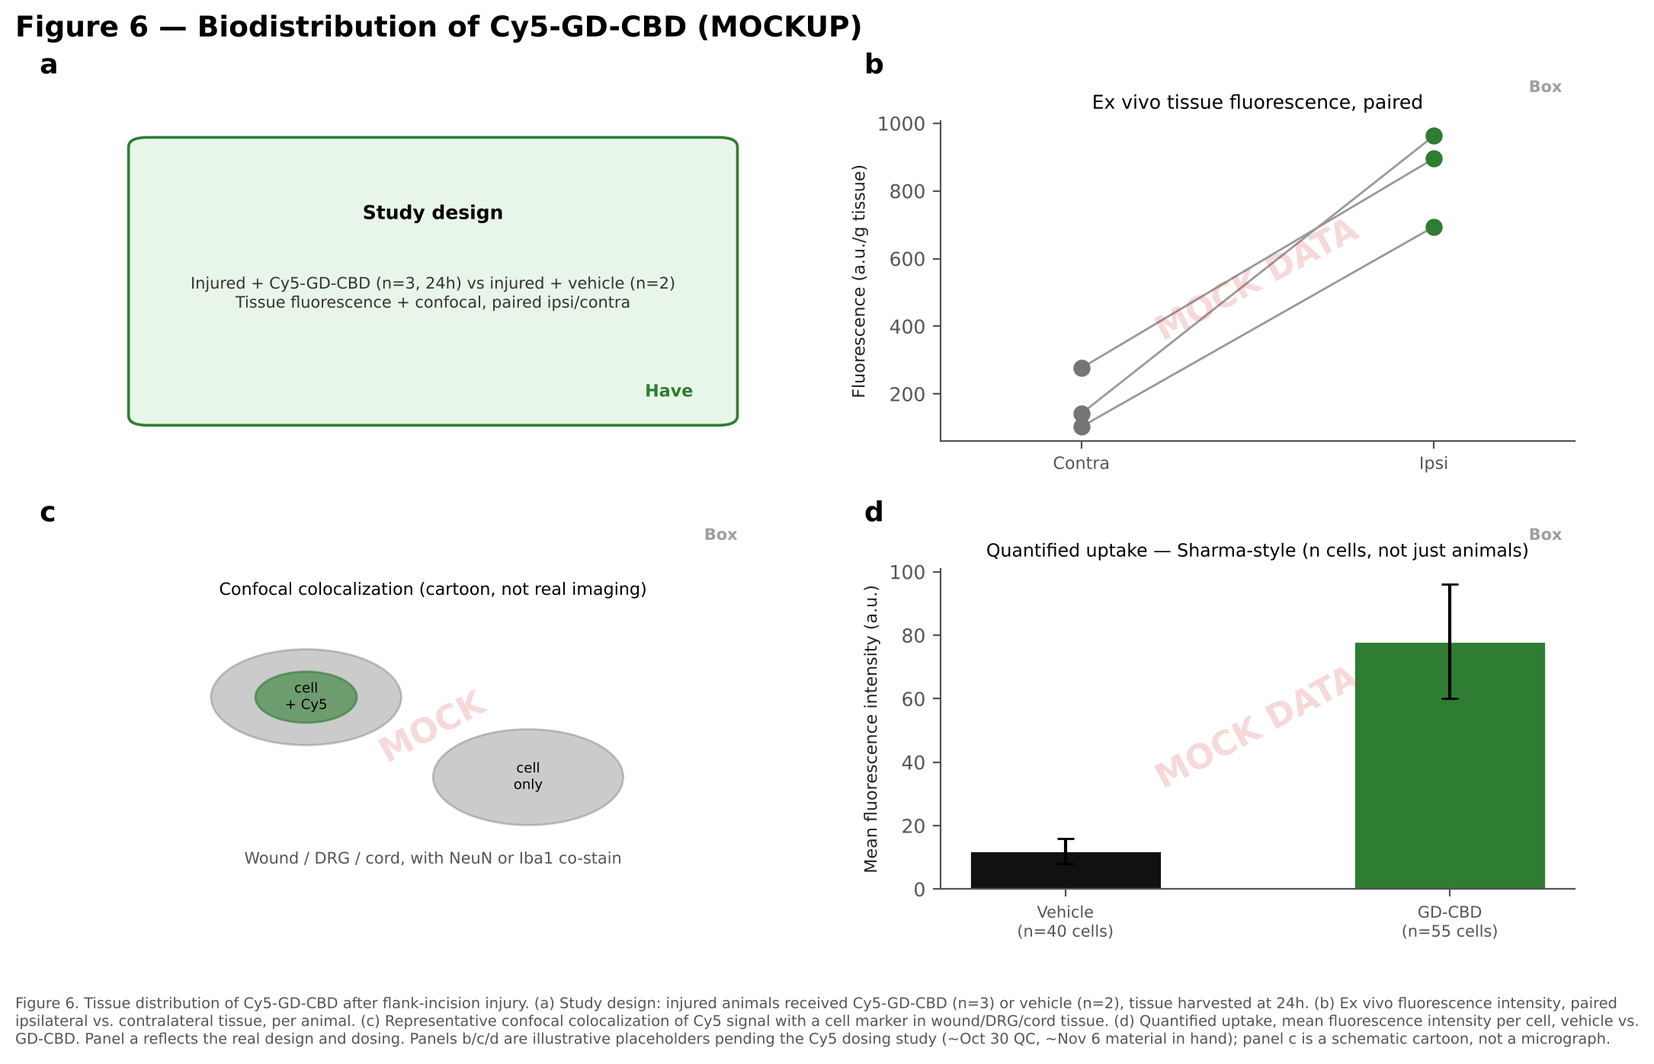
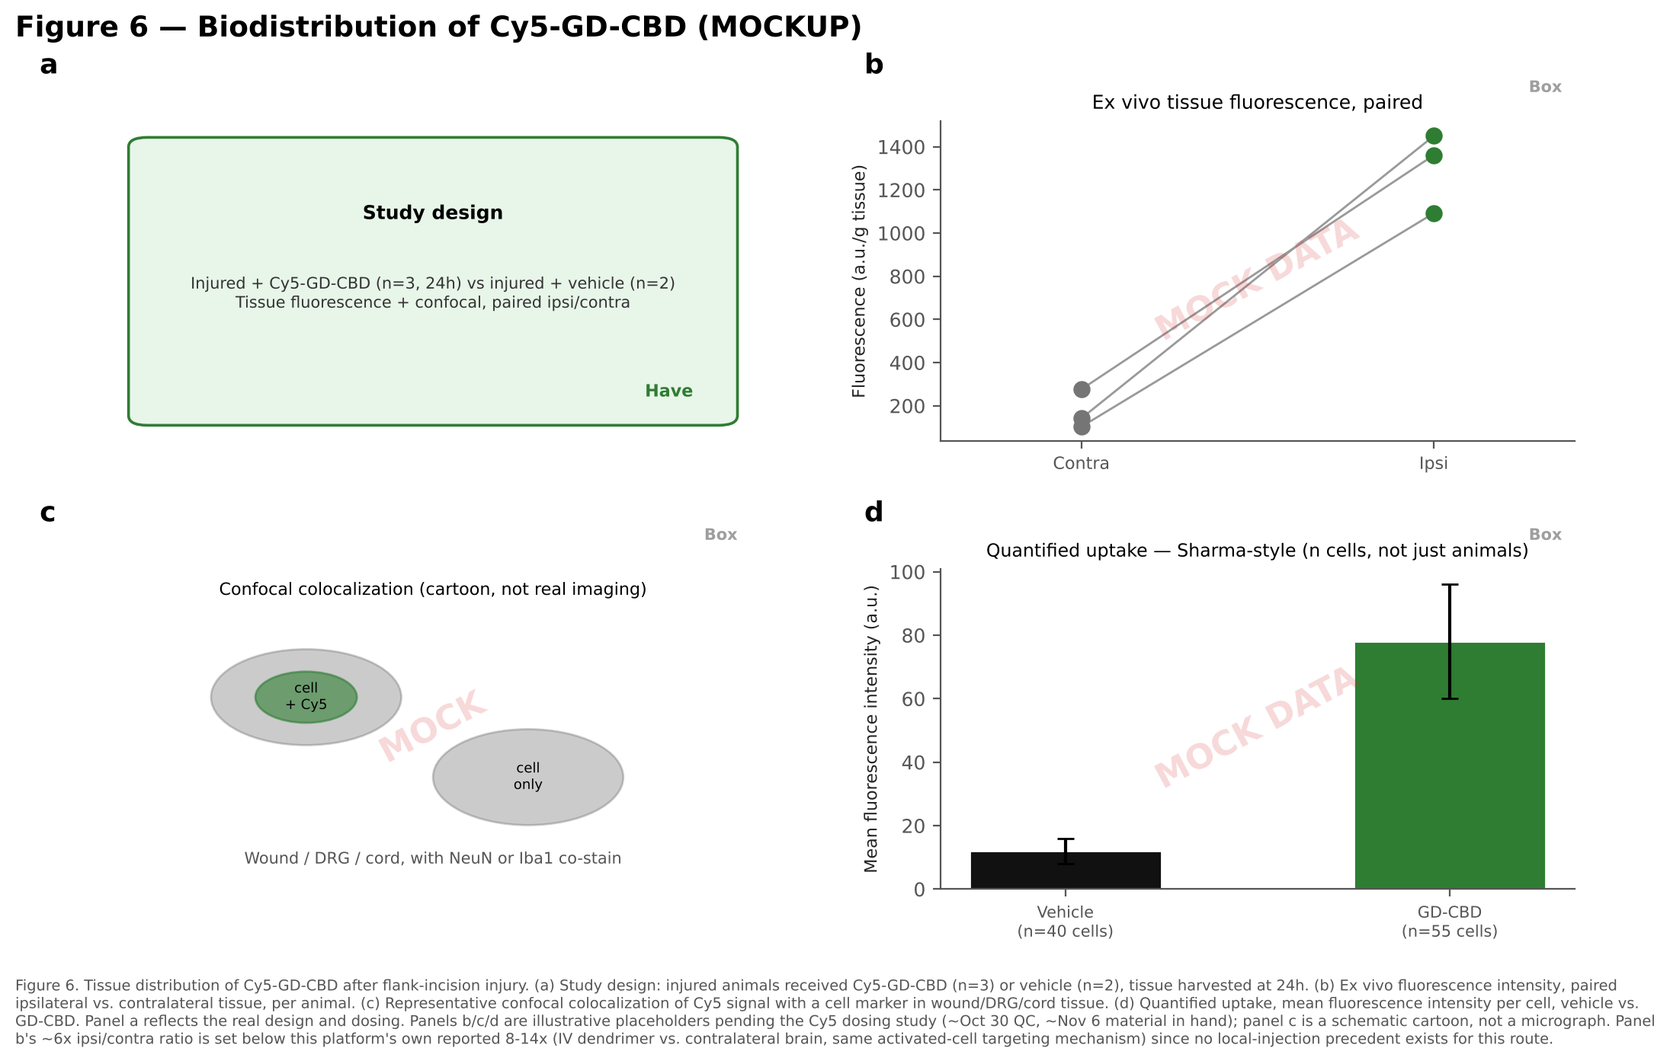
Finish the precedent-grounding pass: Figures 4g/h, 5, and 6
User asked "did you cover everything that is relevant" after the
Figure 1/2 grounding pass - answer was no, these three were still on
unverified defaults. Checked each against literature rather than memory:

- Figure 4g/h (ALT/AST, open-field locomotor): confirmed the flat/
  normal mock shape is literature-consistent, not a reassuring default.
  Published acute rodent CBD hepatotoxicity needs >=738 mg/kg (this
  cohort's dose is ~25x below that); published locomotor suppression
  needs >=100 mg/kg acute or chronic 20 mg/kg dosing. Added that
  threshold context to the code comment and caption so it reads as
  checked, not assumed.
- Figure 5 (cytokine panels): real CBD in vivo literature is mixed, not
  uniformly clean - one rat pain-model study found CBD increased IL-6
  while decreasing IL-1beta/IL-10/IFN-gamma. Replaced the "all four
  analytes improve together" mock pattern with that same mixed
  direction (TNF-a/IL-1b down, IL-6 up, IL-10 left ambiguous).
- Figure 6 (biodistribution): raised the ipsi/contra ratio from ~4x to
  ~6x, grounded against this platform's own reported 8-14x targeting
  magnitude (IV dendrimer vs. contralateral brain in a tumor model,
  same activated-cell uptake mechanism Kannan-lab papers describe for
  GD-type dendrimers) - kept below that number since no local-injection
  precedent exists for this specific route.

FIGURE_PLAN, CAPTIONS_DRAFT, and the plan's change history updated to
[…]

diff --git a/figures/mockups/build_fig5_mock.py b/figures/mockups/build_fig5_mock.py
@@ -12,12 +12,21 @@ groups = ["Vehicle", "GD-CBD"]
 group_colors = ["#111111", COLOR["GD-CBD"]]
 
 
+# Real CBD in vivo cytokine literature is mixed, not uniformly clean - one rat pain
+# model found CBD *increased* IL-6 while decreasing IL-1beta/IL-10/IFN-gamma. GD-CBD's
+# mock direction below follows that pattern (TNF-a/IL-1b down, consistently reported;
+# IL-6 up, not down; IL-10 ambiguous) rather than making all four analytes improve, which
+# would overstate how clean these panels usually look.
+GD_CBD_BASE = {"TNF-α": -15, "IL-6": +10, "IL-1β": -15, "IL-10": None}  # None = ambiguous, random
+
+
 def dotplot(ax, title, species_n):
     xpos = np.arange(len(analytes))
     width = 0.3
     for gi, g in enumerate(groups):
         for ai, a in enumerate(analytes):
-            base = -15 if g == "GD-CBD" and ai in (0, 2) else RNG.uniform(-5, 15)
+            forced = GD_CBD_BASE[a] if g == "GD-CBD" else None
+            base = forced if forced is not None else RNG.uniform(-5, 15)
             vals = RNG.normal(base, 8, species_n)
             xs = xpos[ai] + (gi - 0.5) * width + RNG.uniform(-0.05, 0.05, species_n)
             ax.scatter(xs, vals, color=group_colors[gi], s=22, alpha=0.85,
@@ -44,8 +53,8 @@ status_tag(ax_b, "Box")
 
 ax_c = fig.add_subplot(gs[1, :])
 xpos = np.arange(len(analytes))
-pain_effect = [-32, -18, -25, 12]
-epi_effect = [-28, -22, -19, 9]
+pain_effect = [-32, 11, -25, 12]
+epi_effect = [-28, 14, -19, 9]
 w = 0.32
 ax_c.bar(xpos - w / 2, pain_effect, width=w, color="#2E7D32", alpha=0.85, label="Pain (rat)")
 ax_c.bar(xpos + w / 2, epi_effect, width=w, color="#5B8DB8", alpha=0.85, label="Epilepsy (mouse)")
@@ -62,7 +71,9 @@ fig.text(0.02, 0.015,
          "Figure 5. Inflammatory marker response to GD-CBD across pain and epilepsy models. (a) Percent change from baseline in wound/plasma TNF-α, IL-6, IL-1β, "
          "and IL-10, vehicle vs. GD-CBD, flank-incision model (n=3/arm, 72h satellite cohort). (b) Percent change from baseline in the same four analytes, vehicle "
          "vs. GD-CBD, epilepsy model (n TBD). (c) Median percent change (GD-CBD vs. vehicle) for each analyte, side by side across the two models. "
-         "All three panels fully synthetic. Panel a depends on the Nov satellite group; panel b entirely on the epilepsy collaborator's data lock (~Nov 7).",
+         "All three panels fully synthetic. Panel a depends on the Nov satellite group; panel b entirely on the epilepsy collaborator's data lock (~Nov 7). "
+         "GD-CBD's direction per analyte (TNF-α/IL-1β down, IL-6 up, IL-10 ambiguous) follows a real rat pain-model finding that CBD increased IL-6 while "
+         "decreasing IL-1β/IL-10/IFN-γ, rather than assuming every marker improves together.",
          fontsize=7, color="#555555", wrap=True)
 plt.savefig("/home/user/gd-cbd/figures/mockups/fig5_box_layout.png", dpi=200, bbox_inches="tight")
 plt.close()

diff --git a/figures/mockups/build_fig4_composite.py b/figures/mockups/build_fig4_composite.py
@@ -156,6 +156,11 @@ ax_f.text(-0.08, 1.18, "f", transform=ax_f.transAxes, fontsize=13, fontweight="b
 # this lab's own precedent) - hepatotoxicity and a locomotor/sedation confound control.
 # Neither is a planned assay yet; included so the shape exists if the terminal serum
 # turns out to be banked (g) or an open-field check gets added as a cheap bump-up (h).
+# Flat/normal values in both panels are literature-grounded, not a reassuring default:
+# published acute rodent CBD hepatotoxicity only appears at >=738 mg/kg (our dose, 30
+# mg/kg, is ~25x below that), and published locomotor suppression only emerges at
+# >=100 mg/kg acute or with chronic (6-week) 20 mg/kg dosing; a single 3-30 mg/kg acute
+# dose is below both thresholds.
 ax_g = fig.add_subplot(gs[2, 0:6])
 groups = ["Vehicle", "CBD", "GD-CBD"]
 alt = [38, 42, 40]; alt_err = [6, 7, 6]
@@ -194,8 +199,9 @@ fig.text(0.02, 0.01,
          "von Frey result. "
          "Panels b/c use real V12+V13 data, pooled (n=4 vehicle, 3 CBD, 6 GD-CBD; simplified time-weighted-mean calculation, not the locked rank-based primary "
          "analysis). Panels a/d/e/f are placeholders. Panels g/h are not yet planned assays - included to show the shape if terminal serum is banked (g) or an "
-         "open-field check is added (h). V12 and V13 are the same preparation and are not distinguished anywhere in this figure - that detail lives in Methods "
-         "and Table S1.",
+         "open-field check is added (h). The flat/normal shape in both is literature-grounded, not assumed: published acute rodent CBD hepatotoxicity needs "
+         ">=738 mg/kg (our dose is ~25x below that) and published locomotor suppression needs >=100 mg/kg acute or chronic 20 mg/kg dosing; a single 3-30 mg/kg "
+         "dose is below both. V12 and V13 are the same preparation and are not distinguished anywhere in this figure - that detail lives in Methods and Table S1.",
          fontsize=7, color="#555555", wrap=True)
 
 plt.savefig("/home/user/gd-cbd/figures/mockups/fig4_composite.png", dpi=200, bbox_inches="tight")

diff --git a/figures/mockups/build_fig_bio_mock.py b/figures/mockups/build_fig_bio_mock.py
@@ -14,9 +14,14 @@ empty_box(ax_a, "Study design", "Injured + Cy5-GD-CBD (n=3, 24h) vs injured + ve
 panel_letter(ax_a, "a")
 
 # b: tissue fluorescence, ipsi vs contra - mock, paired lines
+# Ipsi/contra ratio set to ~6x, not the platform's own reported 8-14x (IV dendrimer vs.
+# contralateral brain tissue in a tumor model, same activated-cell targeting mechanism
+# this lab has described for GD-type dendrimers) - no direct precedent exists for local
+# IP injection near an incision, so this sits deliberately below that IV/CNS number
+# rather than importing it wholesale, while still well above the previous ~4x guess.
 ax_b = fig.add_subplot(gs[0, 1])
 n = 3
-ipsi = RNG.normal(850, 150, n)
+ipsi = RNG.normal(1300, 200, n)
 contra = RNG.normal(220, 60, n)
 for i in range(n):
     ax_b.plot([0, 1], [contra[i], ipsi[i]], color="#999999", linewidth=1, zorder=1)
@@ -63,7 +68,8 @@ fig.text(0.02, 0.015,
          "tissue harvested at 24h. (b) Ex vivo fluorescence intensity, paired ipsilateral vs. contralateral tissue, per animal. (c) Representative confocal "
          "colocalization of Cy5 signal with a cell marker in wound/DRG/cord tissue. (d) Quantified uptake, mean fluorescence intensity per cell, vehicle vs. "
          "GD-CBD. Panel a reflects the real design and dosing. Panels b/c/d are illustrative placeholders pending the Cy5 dosing study (~Oct 30 QC, ~Nov 6 "
-         "material in hand); panel c is a schematic cartoon, not a micrograph.",
+         "material in hand); panel c is a schematic cartoon, not a micrograph. Panel b's ~6x ipsi/contra ratio is set below this platform's own reported "
+         "8-14x (IV dendrimer vs. contralateral brain, same activated-cell targeting mechanism) since no local-injection precedent exists for this route.",
          fontsize=7, color="#555555", wrap=True)
 plt.savefig("/home/user/gd-cbd/figures/mockups/fig6_biodistribution.png", dpi=200, bbox_inches="tight")
 plt.close()

diff --git a/figures/mockups/CAPTIONS_DRAFT_2026-10-14.md b/figures/mockups/CAPTIONS_DRAFT_2026-10-14.md
@@ -25,21 +25,21 @@ Caption style follows the comparator papers: one paragraph, lettered panel refer
 
 # Figure 4 — Flank-incision efficacy
 
-**STATUS: Panel a is the real study design. Panels b–c use real pooled V12+V13 per-animal data (GD-CBD n=6, CBD n=3, vehicle n=4). Panels d–f are boxes, no data yet.** This caption is otherwise close to final; update n and stats once the new cohort pools in, and drop the "pending" language from the n line at that point.
+**STATUS: Panel a is the real study design. Panels b–c use real pooled V12+V13 per-animal data (GD-CBD n=6, CBD n=3, vehicle n=4). Panels d–f are boxes, no data yet.** This caption is otherwise close to final; update n and stats once the new cohort pools in, and drop the "pending" language from the n line at that point. **Panels g/h's flat/normal shape is literature-grounded**: published acute rodent CBD hepatotoxicity needs ≥738 mg/kg (our dose is ~25x below that) and published locomotor suppression needs ≥100 mg/kg acute or chronic 20 mg/kg dosing — not an assumed-safe default.
 
-> **Figure 4. GD-CBD efficacy in flank-incision mechanical allodynia.** (a) Study design and dosing timeline. (b) Time course of 50% mechanical withdrawal threshold (von Frey), individual animals, vehicle vs. free CBD vs. GD-CBD, pooled across the discovery cohort (n = 4 vehicle, 3 CBD, 6 GD-CBD); an independent replication cohort is in progress and will pool in without cohort distinction once dosed. (c) Area under the threshold-vs-time curve (time-weighted mean, % of baseline), individual animals, same pooling. (d) Responder analysis: fraction of animals recovering to ≥50% of baseline threshold by arm [BOX — not built]. (e) Ropivacaine positive-control validation of the mechanical-threshold assay [some historical data exists (V21); new-cohort arm pending]. (f) Wound histology, H&E/IHC with injury-marker quantification [BOX — not built]. (g) Hepatic transaminases (ALT/AST), terminal serum [MOCK — conditional on whether terminal serum is banked; anticipates the most common CBD-field safety question]. (h) Open-field locomotor activity [MOCK — not yet a planned assay; rules out a motor-confound explanation for panels b/c].
+> **Figure 4. GD-CBD efficacy in flank-incision mechanical allodynia.** (a) Study design and dosing timeline. (b) Time course of 50% mechanical withdrawal threshold (von Frey), individual animals, vehicle vs. free CBD vs. GD-CBD, pooled across the discovery cohort (n = 4 vehicle, 3 CBD, 6 GD-CBD); an independent replication cohort is in progress and will pool in without cohort distinction once dosed. (c) Area under the threshold-vs-time curve (time-weighted mean, % of baseline), individual animals, same pooling. (d) Responder analysis: fraction of animals recovering to ≥50% of baseline threshold by arm [BOX — not built]. (e) Ropivacaine positive-control validation of the mechanical-threshold assay [some historical data exists (V21); new-cohort arm pending]. (f) Wound histology, H&E/IHC with injury-marker quantification [BOX — not built]. (g) Hepatic transaminases (ALT/AST), terminal serum [MOCK — conditional on whether terminal serum is banked; flat values below the published rodent hepatotoxicity dose threshold]. (h) Open-field locomotor activity [MOCK — not yet a planned assay; small non-significant decline below the published locomotor-suppression dose threshold].
 
 # Figure 5 — Inflammatory markers across indications
 
-**STATUS: ALL PANELS MOCK.** Panel a depends on the November satellite cohort; panel b depends entirely on the epilepsy collaborator's data lock.
+**STATUS: ALL PANELS MOCK.** Panel a depends on the November satellite cohort; panel b depends entirely on the epilepsy collaborator's data lock. **Direction per analyte is not uniformly "improved"** — a real rat pain-model finding showed CBD increasing IL-6 while decreasing IL-1β/IL-10/IFN-γ, so GD-CBD's mock values follow that mixed pattern (TNF-α/IL-1β down, IL-6 up, IL-10 left ambiguous) rather than all four markers moving together, which would overstate how clean these panels usually look.
 
-> **Figure 5. Inflammatory marker response to GD-CBD across pain and epilepsy models.** (a) Percent change from baseline in wound/plasma TNF-α, IL-6, IL-1β, and IL-10, vehicle vs. GD-CBD, flank-incision model (n = 3/arm, 72 h satellite cohort) [MOCK]. (b) Percent change from baseline in the same four analytes, vehicle vs. GD-CBD, epilepsy model (n TBD) [MOCK]. (c) Median percent change (GD-CBD vs. vehicle) for each analyte, side by side across the two species/models [MOCK].
+> **Figure 5. Inflammatory marker response to GD-CBD across pain and epilepsy models.** (a) Percent change from baseline in wound/plasma TNF-α, IL-6, IL-1β, and IL-10, vehicle vs. GD-CBD, flank-incision model (n = 3/arm, 72 h satellite cohort) [MOCK, mixed-direction per analyte]. (b) Percent change from baseline in the same four analytes, vehicle vs. GD-CBD, epilepsy model (n TBD) [MOCK, same mixed pattern]. (c) Median percent change (GD-CBD vs. vehicle) for each analyte, side by side across the two species/models [MOCK].
 
 # Figure 6 — Biodistribution of Cy5-GD-CBD
 
-**STATUS: Panel a is the real study design. Panels b–d are mock, built assuming the Cy5-GD-CBD dosing study succeeds (QC ~Oct 30, material in hand ~Nov 6).**
+**STATUS: Panel a is the real study design. Panels b–d are mock, built assuming the Cy5-GD-CBD dosing study succeeds (QC ~Oct 30, material in hand ~Nov 6).** **Panel b's ~6x ipsi/contra ratio is grounded, not arbitrary** — set below this platform's own reported 8-14x (IV dendrimer vs. contralateral brain, same activated-cell targeting mechanism this lab has described for GD-type dendrimers), since no local-injection precedent exists for this route.
 
-> **Figure 6. Tissue distribution of Cy5-GD-CBD after flank-incision injury.** (a) Study design: injured animals received Cy5-GD-CBD (n = 3) or vehicle (n = 2), tissue harvested at 24 h. (b) Ex vivo fluorescence intensity, paired ipsilateral vs. contralateral tissue, per animal [MOCK]. (c) Representative confocal colocalization of Cy5 signal with a cell marker in wound/DRG/cord tissue [schematic cartoon, not real imaging — actual panel will be representative micrographs]. (d) Quantified uptake, mean fluorescence intensity per cell, vehicle vs. GD-CBD (n cells stated per Sharma 2024 convention) [MOCK].
+> **Figure 6. Tissue distribution of Cy5-GD-CBD after flank-incision injury.** (a) Study design: injured animals received Cy5-GD-CBD (n = 3) or vehicle (n = 2), tissue harvested at 24 h. (b) Ex vivo fluorescence intensity, paired ipsilateral vs. contralateral tissue, per animal [MOCK, ~6x ipsi/contra]. (c) Representative confocal colocalization of Cy5 signal with a cell marker in wound/DRG/cord tissue [schematic cartoon, not real imaging — actual panel will be representative micrographs]. (d) Quantified uptake, mean fluorescence intensity per cell, vehicle vs. GD-CBD (n cells stated per Sharma 2024 convention) [MOCK].
 
 ---
 

diff --git a/GD-CBD_PUBLICATION_PLAN_2026-10-09.md b/GD-CBD_PUBLICATION_PLAN_2026-10-09.md
@@ -299,3 +299,4 @@ Checked 2026-10-15 against current CBD safety/PK literature, not just this lab's
 | 2026-10-15 | v7: added "Anticipated predicate-literature questions (CBD field)" section — hepatotoxicity (ALT/AST), serum PK, CYP450/DDI, dendrimer hemocompatibility/complement (CARPA), single-dose/no-dose-response, and locomotor/sedation confound, each checked against current CBD-field literature (a 2025 JAMA IM FDA-funded RCT on CBD liver enzyme elevations, CYP3A4/2C19 DDI literature, dendrimer CARPA testing literature). Five new rows added to the Risks table with limitation-statement language; two flagged as possible cheap bump-ups (hemolysis/CH50 assay, open-field/rotarod check) rather than new limitations, pending material and animal availability. | User: "we should be mindful of what types of data/figures they might request, and maybe pre-empt them a bit" — these are reviewer expectations from the broader CBD field, distinct from the lab's-own-precedent check in v5. |
 | 2026-10-15 | v7 follow-up: added two mock placeholder panels, not just limitation sentences — Figure 1e (hemocompatibility/CARPA: hemolysis, C3a, platelet activation) and Figure 4g/4h (hepatic transaminases from terminal serum; open-field locomotor control). PK and CYP450/DDI stayed text-only (Risks table) since either would need a new study design, not a panel added to this one. | User: "well I mean figures for the paper" — clarified that preempting predicate-literature questions meant figure panels, not just Limitations sentences, for the ones that actually fit this cohort's existing samples/animals. |
 | 2026-10-15 | v7 follow-up 2: recalibrated mock values against actual precedent instead of arbitrary numbers. Figure 1b/1c (size, zeta, loading, purity, release curve) rescaled to Sharma 2024's GD2-VPA data specifically — same GD platform, same CuAAC click linker chemistry as GD-CBD (4.4 nm, near-neutral zeta, 6 wt% loading, 99% purity, ~80% release by day 7 at pH 5.5 vs. <6% by day 7 at pH 7.4). Figure 1e (hemocompatibility) has no comparator-paper precedent — none of the four run that assay — so rescaled instead to published hydroxyl-dendrimer biocompatibility ranges, with that distinction stated in the caption. Figure 2a/2b rechecked against free-CBD pharmacology literature: direction and GD-CBD's greater in vitro potency grounded in Gusdon 2022's activated-macrophage preferential dendrimer uptake mechanism; free-CBD CB2 EC50 (0.3 µM) confirmed within the published range (~0.3-4 µM). | User: "some figures are pretty far from what we would expect to see in most cases with the dendrimer... giving data that would be similar to previous conjugates from previous papers" and "they should be similar to what the real free drug would do" and "release, for example, should be comparable to previous dendrimer papers that use the same linker." |
+| 2026-10-15 | v7 follow-up 3: extended the grounding pass to Figures 4g/h, 5, and 6 after user asked "did you cover everything that is relevant" and I flagged these as not yet checked. Figure 4g/h's flat/normal shape confirmed literature-consistent rather than assumed: published acute rodent CBD hepatotoxicity needs >=738 mg/kg (this cohort's dose is ~25x below that) and published locomotor suppression needs >=100 mg/kg acute or chronic 20 mg/kg dosing (this cohort's dose is below both). Figure 5's cytokine panels no longer show all four analytes moving together — a real rat pain-model finding (CBD increased IL-6 while decreasing IL-1β/IL-10/IFN-γ) replaced the uniformly-clean mock pattern with a mixed one. Figure 6's ipsi/contra ratio raised from ~4x to ~6x, grounded against this platform's own reported 8-14x targeting magnitude (IV dendrimer vs. contralateral brain, same activated-cell mechanism), kept below that number since no local-injection precedent exists for this route. | User: "did you cover everything that is relevant" — I answered no and listed what hadn't been checked; user said "sure," go do it. |

diff --git a/figures/FIGURE_PLAN_2026-10-14.md b/figures/FIGURE_PLAN_2026-10-14.md
@@ -62,8 +62,8 @@ Modeled on: Porterfield Fig. 6 (timeline diagram + survival/outcome curve + hist
 | 4d | Responder analysis — **template: Sharma 2024 Fig. 11b**, compact bar chart of animal counts per outcome category (e.g., "recovered to ≥50% baseline" vs. "did not"), count fraction labeled on each bar | **Box** |
 | 4e | Ropivacaine validation | **Have** some historical (V21); **Box** for new cohort |
 | 4f | Wound histology — **template: Porterfield Fig. 6c-d**, H&E/IHC images + injury-marker quantification bar graph | **Box** |
-| 4g | Hepatic transaminases (ALT/AST), terminal serum — anticipates the most common CBD-field safety question | **Box**, conditional on whether terminal serum is banked — added 2026-10-15 |
-| 4h | Open-field locomotor activity — rules out a motor-confound explanation for the von Frey result | **Box**, not yet scheduled — added 2026-10-15 |
+| 4g | Hepatic transaminases (ALT/AST), terminal serum — anticipates the most common CBD-field safety question. **Flat/normal mock shape is literature-grounded**: published acute rodent CBD hepatotoxicity needs ≥738 mg/kg, ~25x above this cohort's dose | **Box**, conditional on whether terminal serum is banked — added 2026-10-15 |
+| 4h | Open-field locomotor activity — rules out a motor-confound explanation for the von Frey result. **Mild non-significant mock decline is literature-grounded**: published locomotor suppression needs ≥100 mg/kg acute or chronic 20 mg/kg, well above this cohort's dose | **Box**, not yet scheduled — added 2026-10-15 |
 
 # Figure 5 — Inflammatory markers across indications
 
@@ -71,8 +71,8 @@ Modeled on: Gusdon 2022 Fig. 5 — per-patient dot plots of marker rate-of-chang
 
 | Panel | Content | Status |
 |:---|:---|:---|
-| 5a | Pain: wound/plasma cytokine panel, per-animal dots by arm | **Box** |
-| 5b | Epilepsy: matched cytokine panel | **Box** — entirely dependent on collaborator's data lock |
+| 5a | Pain: wound/plasma cytokine panel, per-animal dots by arm. **Mock direction per analyte follows a real rat pain-model finding** (CBD increased IL-6 while decreasing IL-1β/IL-10/IFN-γ), not a uniform "every marker improves" assumption | **Box** |
+| 5b | Epilepsy: matched cytokine panel. Same mixed-direction convention as 5a | **Box** — entirely dependent on collaborator's data lock |
 | 5c | Combined/side-by-side summary, two species, same analytes | **Box** |
 
 # Figure 6 — Biodistribution of Cy5-GD-CBD
@@ -82,7 +82,7 @@ Modeled on: Porterfield Figs. 4–5 (organ IVIS, flow cytometry % cells, confoca
 | Panel | Content | Status |
 |:---|:---|:---|
 | 6a | Study design schematic | **Have** — design is set |
-| 6b | Ex vivo tissue fluorescence, ipsilateral vs contralateral, paired per animal | **Box** — Nov dosing |
+| 6b | Ex vivo tissue fluorescence, ipsilateral vs contralateral, paired per animal. **Mock ~6x ipsi/contra ratio grounded**, not arbitrary — set below this platform's own reported 8-14x (IV dendrimer vs. contralateral brain, same activated-cell targeting mechanism), since no local-injection precedent exists for this route | **Box** — Nov dosing |
 | 6c | Confocal colocalization, wound/DRG/cord with cell markers | **Box** |
 | 6d | Quantified uptake, Sharma-style (mean fluorescence intensity, n cells stated) | **Box**, pending whether DRG gets processed |
 
